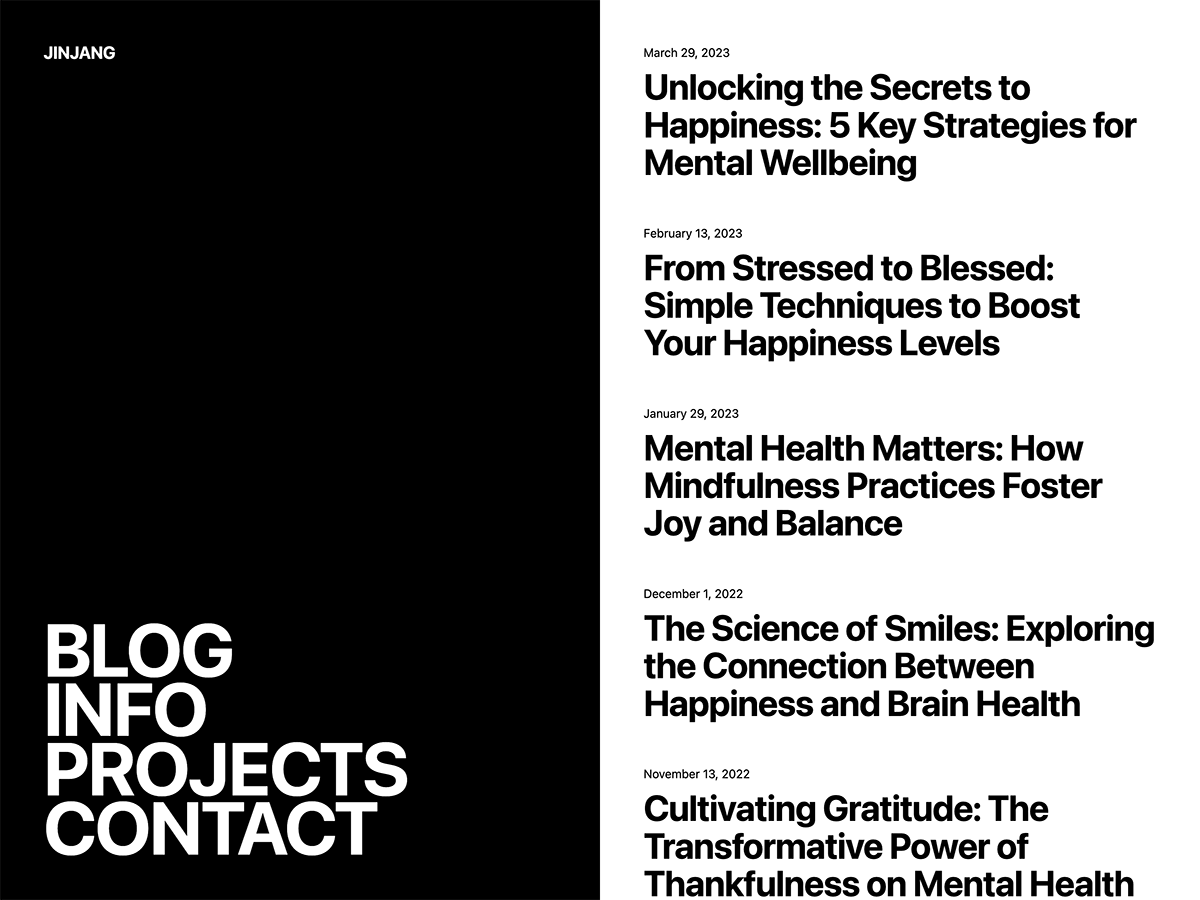
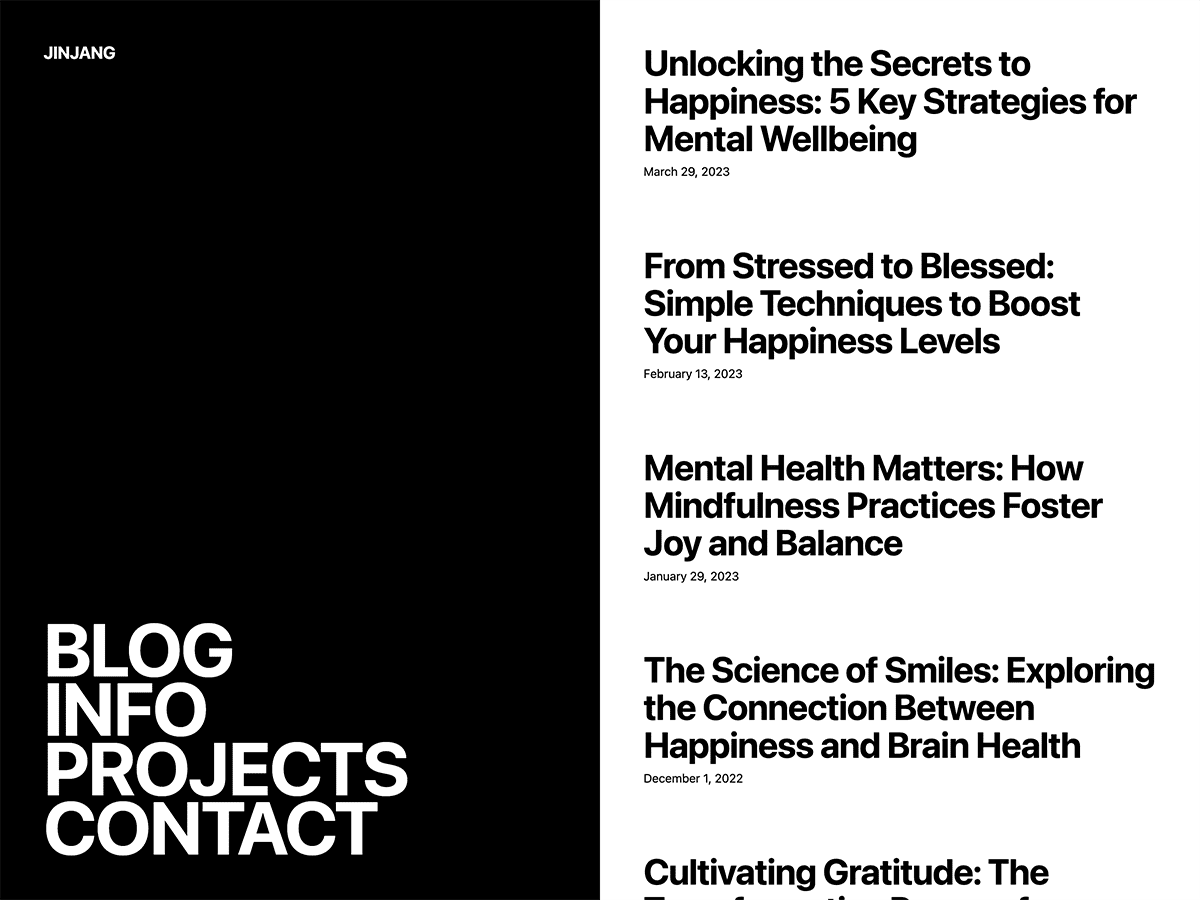
JinJang: Prepare for WP.org submission

Changed region(s): [[0.5242, 0.2489, 0.9867, 1.0], [0.5242, 0.0311, 0.9558, 0.2178]]

diff --git a/jinjang/templates/archive.html b/jinjang/templates/archive.html
@@ -14,10 +14,10 @@
 	<div class="wp-block-column">
 		<!-- wp:group {"style":{"spacing":{"padding":{"top":"var:preset|spacing|70","bottom":"var:preset|spacing|70"}},"dimensions":{"minHeight":"100vh"}},"layout":{"type":"flex","orientation":"vertical","justifyContent":"stretch","verticalAlignment":"space-between"}} -->
 		<div class="wp-block-group" style="min-height:100vh;padding-top:var(--wp--preset--spacing--70);padding-bottom:var(--wp--preset--spacing--70)">
-			<!-- wp:group {"layout":{"type":"constrained"}} -->
-			<div class="wp-block-group">
-				<!-- wp:query {"query":{"perPage":10,"pages":0,"offset":0,"postType":"post","order":"desc","orderBy":"date","author":"","search":"","exclude":[],"sticky":"","inherit":true,"taxQuery":null,"parents":[]},"tagName":"main","layout":{"type":"default"}} -->
-				<main class="wp-block-query">
+			<!-- wp:group {"tagName":"main","layout":{"type":"constrained"}} -->
+			<main class="wp-block-group">
+				<!-- wp:query {"query":{"perPage":10,"pages":0,"offset":0,"postType":"post","order":"desc","orderBy":"date","author":"","search":"","exclude":[],"sticky":"","inherit":true,"taxQuery":null,"parents":[]},"layout":{"type":"default"}} -->
+				<div class="wp-block-query">
 					<!-- wp:group {"style":{"spacing":{"margin":{"bottom":"var:preset|spacing|70"}}},"layout":{"type":"constrained"}} -->
 					<div class="wp-block-group" style="margin-bottom:var(--wp--preset--spacing--70)">
 						<!-- wp:query-title {"type":"archive","showPrefix":false} /-->
@@ -26,14 +26,14 @@
 					</div>
 					<!-- /wp:group -->
 
-					<!-- wp:post-template -->
+					<!-- wp:post-template {"style":{"spacing":{"blockGap":"var:preset|spacing|80"}}} -->
 						<!-- wp:group {"layout":{"type":"constrained"}} -->
 						<div class="wp-block-group">
 							<!-- wp:post-featured-image {"isLink":true} /-->
 
-							<!-- wp:post-date {"style":{"spacing":{"margin":{"bottom":"var:preset|spacing|30"}}}} /-->
+							<!-- wp:post-title {"isLink":true} /-->
 
-							<!-- wp:post-title {"isLink":true,"style":{"spacing":{"margin":{"top":"0px"}}}} /-->
+							<!-- wp:post-date {"style":{"spacing":{"margin":{"top":"var:preset|spacing|30"}}}} /-->
 						</div>
 						<!-- /wp:group -->
 					<!-- /wp:post-template -->
@@ -47,9 +47,9 @@
 						<!-- /wp:query-pagination -->
 					</div>
 					<!-- /wp:group -->
-				</main>
+				</div>
 				<!-- /wp:query -->
-			</div>
+			</main>
 			<!-- /wp:group -->
 
 			<!-- wp:template-part {"slug":"footer","tagName":"footer"} /-->

diff --git a/jinjang/templates/search.html b/jinjang/templates/search.html
@@ -14,20 +14,22 @@
 	<div class="wp-block-column">
 		<!-- wp:group {"style":{"spacing":{"padding":{"top":"var:preset|spacing|70","bottom":"var:preset|spacing|70"}},"dimensions":{"minHeight":"100vh"}},"layout":{"type":"flex","orientation":"vertical","justifyContent":"stretch","verticalAlignment":"space-between"}} -->
 		<div class="wp-block-group" style="min-height:100vh;padding-top:var(--wp--preset--spacing--70);padding-bottom:var(--wp--preset--spacing--70)">
-			<!-- wp:group {"layout":{"type":"constrained"}} -->
-			<div class="wp-block-group">
+			<!-- wp:group {"tagName":"main","layout":{"type":"constrained"}} -->
+			<main class="wp-block-group">
 				<!-- wp:pattern {"slug":"jinjang/search"} /-->
 
-				<!-- wp:query {"queryId":1,"query":{"perPage":10,"pages":0,"offset":0,"postType":"post","order":"desc","orderBy":"date","author":"","search":"","exclude":[],"sticky":"","inherit":true,"taxQuery":null,"parents":[]},"tagName":"main","layout":{"type":"default"}} -->
-				<main class="wp-block-query">
-					<!-- wp:post-template -->
+				<!-- wp:query-title {"type":"search","style":{"spacing":{"margin":{"top":"var:preset|spacing|70","bottom":"var:preset|spacing|70"}}}} /-->
+
+				<!-- wp:query {"query":{"perPage":10,"pages":0,"offset":0,"postType":"post","order":"desc","orderBy":"date","author":"","search":"","exclude":[],"sticky":"","inherit":true,"taxQuery":null,"parents":[]},"layout":{"type":"default"}} -->
+				<div class="wp-block-query">
+					<!-- wp:post-template {"style":{"spacing":{"blockGap":"var:preset|spacing|80"}}} -->
 						<!-- wp:group {"layout":{"type":"constrained"}} -->
 						<div class="wp-block-group">
 							<!-- wp:post-featured-image {"isLink":true} /-->
 
-							<!-- wp:post-date {"style":{"spacing":{"margin":{"bottom":"var:preset|spacing|30"}}}} /-->
+							<!-- wp:post-title {"isLink":true} /-->
 
-							<!-- wp:post-title {"isLink":true,"style":{"spacing":{"margin":{"top":"0px"}}}} /-->
+							<!-- wp:post-date {"style":{"spacing":{"margin":{"top":"var:preset|spacing|30"}}}} /-->
 						</div>
 						<!-- /wp:group -->
 					<!-- /wp:post-template -->
@@ -45,9 +47,9 @@
 					<!-- wp:query-no-results -->
 						<!-- wp:pattern {"slug":"jinjang/no-results-content"} /-->
 					<!-- /wp:query-no-results -->
-				</main>
+				</div>
 				<!-- /wp:query -->
-			</div>
+			</main>
 			<!-- /wp:group -->
 
 			<!-- wp:template-part {"slug":"footer","tagName":"footer"} /-->

diff --git a/jinjang/style.css b/jinjang/style.css
@@ -1,19 +1,21 @@
 /*
-Theme Name: jinjang
+Theme Name: JinJang
 Theme URI: https://wordpress.com/theme/jinjang/
 Author: Automattic
 Author URI: https://automattic.com/
 Description: JinJang is a blog theme with a split, 50:50 layout like Yan Yang.
 Requires at least: 5.8
-Tested up to: 5.9
+Tested up to: 6.3
 Requires PHP: 5.7
-Version: 0.0.1
+Version: 1.0.0
 License: GNU General Public License v2 or later
 License URI: http://www.gnu.org/licenses/gpl-2.0.html
 Template: 
 Text Domain: jinjang
-Tags: blog, one-column, two-columns, wide-blocks, block-patterns, custom-background, custom-colors, custom-logo, custom-menu, editor-style, featured-images, full-site-editing, rtl-language-support, sticky-post, template-editing, threaded-comments, translation-ready
-*//*
+Tags: blog, two-columns, wide-blocks, block-patterns, featured-images, full-site-editing, rtl-language-support, template-editing, threaded-comments, translation-ready
+*/
+
+/*
  * Link styles
  * https://github.com/WordPress/gutenberg/issues/42319
  */
@@ -32,25 +34,15 @@ a {
 }
 
 /*
- * Avatar Block
- * Fix border radius setting for the avatar block
- * https://github.com/WordPress/gutenberg/issues/48253
- */
-.wp-block-avatar a,
-.wp-block-avatar img {
-	border-radius: inherit;
-}
-
-/*
  * Button Block
  * Control the hover stylings of outline block style.
  * Unnecessary once block styles are configurable via theme.json
  * https://github.com/WordPress/gutenberg/issues/42794
  */
 .wp-block-button.is-style-outline>.wp-block-button__link:not(.has-background):hover {
-	background-color: var(--wp--preset--color--contrast);
+	background-color: var(--wp--preset--color--primary);
+	border-color: var(--wp--preset--color--primary);
 	color: var(--wp--preset--color--base);
-	border-color: var(--wp--preset--color--contrast);
 }
 
 /*
@@ -58,6 +50,16 @@ a {
  * Reset the browser default margins for blockquote element
  * https://github.com/WordPress/gutenberg/issues/44129
  */
-.wp-block-pullquote blockquote {
+.wp-block-pullquote blockquote,
+.wp-block-pullquote p {
 	margin: 0;
+}
+
+/*
+ * Navigation Block
+ * Reset the padding from List block
+ * https://github.com/WordPress/gutenberg/issues/50486
+ */
+.wp-block-navigation ul {
+	padding: unset;
 }

diff --git a/jinjang/templates/index.html b/jinjang/templates/index.html
@@ -14,18 +14,18 @@
 	<div class="wp-block-column">
 		<!-- wp:group {"style":{"spacing":{"padding":{"top":"var:preset|spacing|70","bottom":"var:preset|spacing|70"}},"dimensions":{"minHeight":"100vh"}},"layout":{"type":"flex","orientation":"vertical","justifyContent":"stretch","verticalAlignment":"space-between"}} -->
 		<div class="wp-block-group" style="min-height:100vh;padding-top:var(--wp--preset--spacing--70);padding-bottom:var(--wp--preset--spacing--70)">
-			<!-- wp:group {"layout":{"type":"constrained"}} -->
-			<div class="wp-block-group">
-				<!-- wp:query {"query":{"perPage":10,"pages":0,"offset":0,"postType":"post","order":"desc","orderBy":"date","author":"","search":"","exclude":[],"sticky":"","inherit":true,"taxQuery":null,"parents":[]},"tagName":"main","layout":{"type":"constrained"}} -->
-				<main class="wp-block-query">
-					<!-- wp:post-template -->
+			<!-- wp:group {"tagName":"main","layout":{"type":"constrained"}} -->
+			<main class="wp-block-group">
+				<!-- wp:query {"query":{"perPage":10,"pages":0,"offset":0,"postType":"post","order":"desc","orderBy":"date","author":"","search":"","exclude":[],"sticky":"","inherit":true,"taxQuery":null,"parents":[]},"layout":{"type":"constrained"}} -->
+				<div class="wp-block-query">
+					<!-- wp:post-template {"style":{"spacing":{"blockGap":"var:preset|spacing|80"}}} -->
 						<!-- wp:group {"layout":{"type":"constrained"}} -->
 						<div class="wp-block-group">
 							<!-- wp:post-featured-image {"isLink":true} /-->
 
-							<!-- wp:post-date {"style":{"spacing":{"margin":{"bottom":"var:preset|spacing|30"}}}} /-->
+							<!-- wp:post-title {"isLink":true} /-->
 
-							<!-- wp:post-title {"isLink":true,"style":{"spacing":{"margin":{"top":"0px"}}}} /-->
+							<!-- wp:post-date {"style":{"spacing":{"margin":{"top":"var:preset|spacing|30"}}}} /-->
 						</div>
 						<!-- /wp:group -->
 					<!-- /wp:post-template -->
@@ -39,9 +39,9 @@
 						<!-- /wp:query-pagination -->
 					</div>
 					<!-- /wp:group -->
-				</main>
+				</div>
 				<!-- /wp:query -->
-			</div>
+			</main>
 			<!-- /wp:group -->
 
 			<!-- wp:template-part {"slug":"footer","tagName":"footer"} /-->

diff --git a/jinjang/templates/single.html b/jinjang/templates/single.html
@@ -12,17 +12,17 @@
 
 	<!-- wp:column -->
 	<div class="wp-block-column">
-		<!-- wp:group {"tagName":"main","style":{"spacing":{"padding":{"top":"var:preset|spacing|70","bottom":"var:preset|spacing|70"}},"dimensions":{"minHeight":"100vh"}},"layout":{"type":"flex","orientation":"vertical","justifyContent":"stretch","verticalAlignment":"space-between"}} -->
-		<main class="wp-block-group" style="min-height:100vh;padding-top:var(--wp--preset--spacing--70);padding-bottom:var(--wp--preset--spacing--70)">
-			<!-- wp:group {"layout":{"type":"constrained"}} -->
-			<div class="wp-block-group">
+		<!-- wp:group {"style":{"spacing":{"padding":{"top":"var:preset|spacing|70","bottom":"var:preset|spacing|70"}},"dimensions":{"minHeight":"100vh"}},"layout":{"type":"flex","orientation":"vertical","justifyContent":"stretch","verticalAlignment":"space-between"}} -->
+		<div class="wp-block-group" style="min-height:100vh;padding-top:var(--wp--preset--spacing--70);padding-bottom:var(--wp--preset--spacing--70)">
+			<!-- wp:group {"tagName":"main","layout":{"type":"constrained"}} -->
+			<main class="wp-block-group">
 				<!-- wp:group {"layout":{"type":"constrained","justifyContent":"center"}} -->
 				<div class="wp-block-group">
 					<!-- wp:post-featured-image /-->
 
 					<!-- wp:post-title /-->
 
-					<!-- wp:post-date {"style":{"spacing":{"margin":{"top":"var:preset|spacing|40"}}}} /-->
+					<!-- wp:post-date {"style":{"spacing":{"margin":{"top":"var:preset|spacing|30"}}}} /-->
 
 					<!-- wp:post-content {"lock":{"move":false,"remove":false},"layout":{"type":"constrained","justifyContent":"center"}} /-->
 
@@ -45,11 +45,13 @@
 					<!-- wp:post-navigation-link /-->
 				</div>
 				<!-- /wp:group -->
-			</div>
+
+				<!-- wp:template-part {"slug":"comments"} /-->
+			</main>
 			<!-- /wp:group -->
 
 			<!-- wp:template-part {"slug":"footer","tagName":"footer"} /-->
-		</main>
+		</div>
 		<!-- /wp:group -->
 	</div>
 	<!-- /wp:column -->

diff --git a/jinjang/templates/404.html b/jinjang/templates/404.html
@@ -12,22 +12,22 @@
 
 	<!-- wp:column -->
 	<div class="wp-block-column">
-		<!-- wp:group {"tagName":"main","style":{"dimensions":{"minHeight":"100vh"},"spacing":{"padding":{"top":"var:preset|spacing|70","bottom":"var:preset|spacing|70"}}},"layout":{"type":"flex","orientation":"vertical","justifyContent":"stretch","verticalAlignment":"space-between"}} -->
-		<main class="wp-block-group" style="min-height:100vh;padding-top:var(--wp--preset--spacing--70);padding-bottom:var(--wp--preset--spacing--70)">
+		<!-- wp:group {"style":{"dimensions":{"minHeight":"100vh"},"spacing":{"padding":{"top":"var:preset|spacing|70","bottom":"var:preset|spacing|70"}}},"layout":{"type":"flex","orientation":"vertical","justifyContent":"stretch","verticalAlignment":"space-between"}} -->
+		<div class="wp-block-group" style="min-height:100vh;padding-top:var(--wp--preset--spacing--70);padding-bottom:var(--wp--preset--spacing--70)">
 			<!-- wp:spacer {"height":"0px"} -->
 			<div style="height:0px" aria-hidden="true" class="wp-block-spacer"></div>
 			<!-- /wp:spacer -->
 
-			<!-- wp:group {"layout":{"type":"constrained"}} -->
-			<div class="wp-block-group">
+			<!-- wp:group {"tagName":"main","layout":{"type":"constrained"}} -->
+			<main class="wp-block-group">
 				<!-- wp:pattern {"slug":"jinjang/404"} /-->
 
 				<!-- wp:pattern {"slug":"jinjang/search"} /-->
-			</div>
+			</main>
 			<!-- /wp:group -->
 
 			<!-- wp:template-part {"slug":"footer","tagName":"footer"} /-->
-		</main>
+		</div>
 		<!-- /wp:group -->
 	</div>
 	<!-- /wp:column -->

diff --git a/jinjang/templates/page.html b/jinjang/templates/page.html
@@ -14,20 +14,20 @@
 	<div class="wp-block-column">
 		<!-- wp:group {"style":{"spacing":{"padding":{"top":"var:preset|spacing|70","bottom":"var:preset|spacing|70"}},"dimensions":{"minHeight":"100vh"}},"layout":{"type":"flex","orientation":"vertical","justifyContent":"stretch","verticalAlignment":"space-between"}} -->
 		<div class="wp-block-group" style="min-height:100vh;padding-top:var(--wp--preset--spacing--70);padding-bottom:var(--wp--preset--spacing--70)">
-			<!-- wp:group {"layout":{"type":"constrained"}} -->
-			<div class="wp-block-group">
-				<!-- wp:group {"tagName":"main","layout":{"type":"constrained","justifyContent":"center"}} -->
-				<main class="wp-block-group">
+			<!-- wp:group {"tagName":"main","layout":{"type":"constrained"}} -->
+			<main class="wp-block-group">
+				<!-- wp:group {"layout":{"type":"constrained","justifyContent":"center"}} -->
+				<div class="wp-block-group">
 					<!-- wp:post-featured-image /-->
 
 					<!-- wp:post-title /-->
 
 					<!-- wp:post-content {"lock":{"move":false,"remove":false},"layout":{"type":"constrained","justifyContent":"center"}} /-->
-				</main>
+				</div>
 				<!-- /wp:group -->
 
-				<!-- wp:pattern {"slug":"jinjang/comments"} /-->
-			</div>
+				<!-- wp:template-part {"slug":"comments"} /-->
+			</main>
 			<!-- /wp:group -->
 
 			<!-- wp:template-part {"slug":"footer","tagName":"footer"} /-->

diff --git a/jinjang/patterns/404.php b/jinjang/patterns/404.php
@@ -7,9 +7,9 @@
 ?>
 
 <!-- wp:heading {"level":1,"anchor":"nothing-found"} -->
-<h1 class="wp-block-heading" id="nothing-found"><?php echo esc_html_x( 'Oops! That page can&rsquo;t be found.', 'jinjang' ); ?></h1>
+<h1 class="wp-block-heading" id="nothing-found"><?php echo esc_html__( 'Oops! That page can&rsquo;t be found.', 'jinjang' ); ?></h1>
 <!-- /wp:heading -->
 
 <!-- wp:paragraph -->
-<p><?php echo esc_html_x( 'It looks like nothing was found at this location. Maybe try a search?', 'jinjang' ); ?></p>
+<p><?php echo esc_html__( 'It looks like nothing was found at this location. Maybe try a search?', 'jinjang' ); ?></p>
 <!-- /wp:paragraph -->
